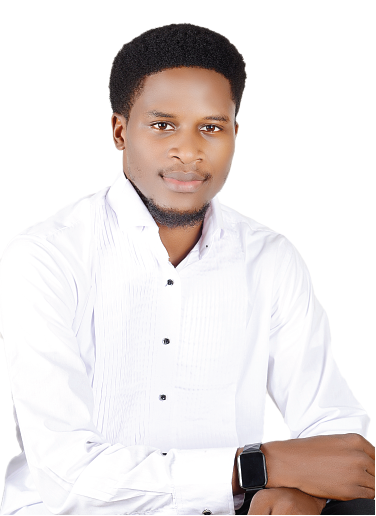
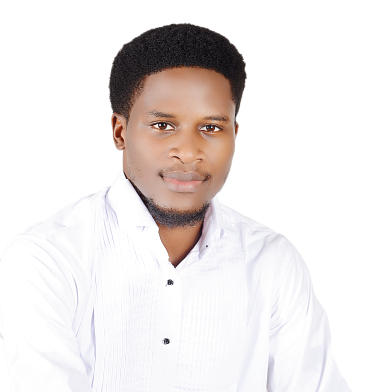
updated homepage and about image resize

diff --git a/index.html b/index.html
@@ -299,8 +299,8 @@
         </div>
       </section>
 
-      <!--=============== SERVICES ===============-->
-      <section class="services section">
+      <!-- =============== SERVICES =============== -->
+      <!-- <section class="services section">
         <div class="section__subtitle">My services</div>
         <h2 class="section__title">What I Offer</h2>
 
@@ -479,10 +479,10 @@
             </div>
           </div>
         </div>
-      </section>
+      </section> -->
 
       <!--=============== WORK ===============-->
-      <section class="work section" id="work">
+      <!-- <section class="work section" id="work">
         <span class="section__subtitle">My Portfolio</span>
         <h2 class="section__title">Recent Works</h2>
 
@@ -544,10 +544,10 @@
             </a>
           </div>
         </div>
-      </section>
+      </section> -->
 
       <!--=============== TESTIMONIALS ===============-->
-      <section class="testimonial section">
+      <!-- <section class="testimonial section">
         <span class="section__subtitle">My clients say</span>
         <h2 class="section__title">Testimonial</h2>
 
@@ -597,7 +597,7 @@
           </div>
           <div class="swiper-pagination"></div>
         </div>
-      </section>
+      </section> -->
 
       <!--=============== CONTACT ===============-->
       <section class="contact section" id="contact">
@@ -613,10 +613,10 @@
               <div class="contact__card">
                 <i class="bx bx-mail-send contact__card-icon"></i>
                 <h3 class="contact__card-title">Email</h3>
-                <span class="contact__card-data">user@gmail.com</span>
+                <span class="contact__card-data">david-agina@outlook.com</span>
 
                 <a
-                  href="mailto:examplemail@correo.com"
+                  href="mailto:david-agina@outlook.com"
                   target="_blank"
                   class="contact__button"
                 >
@@ -643,7 +643,7 @@
               <div class="contact__card">
                 <i class="bx bxl-messenger contact__card-icon"></i>
                 <h3 class="contact__card-title">Messenger</h3>
-                <span class="contact__card-data">user.fb123</span>
+                <span class="contact__card-data">user.fbaginadavidc</span>
 
                 <a
                   href="https://m.me/aginadavidc"
@@ -722,7 +722,7 @@
 
         <ul class="footer__social">
           <a
-            href="https://www.facebook.com/"
+            href="https://www.facebook.com/aginadavidc"
             target="_blank"
             class="footer__social-link"
           >
